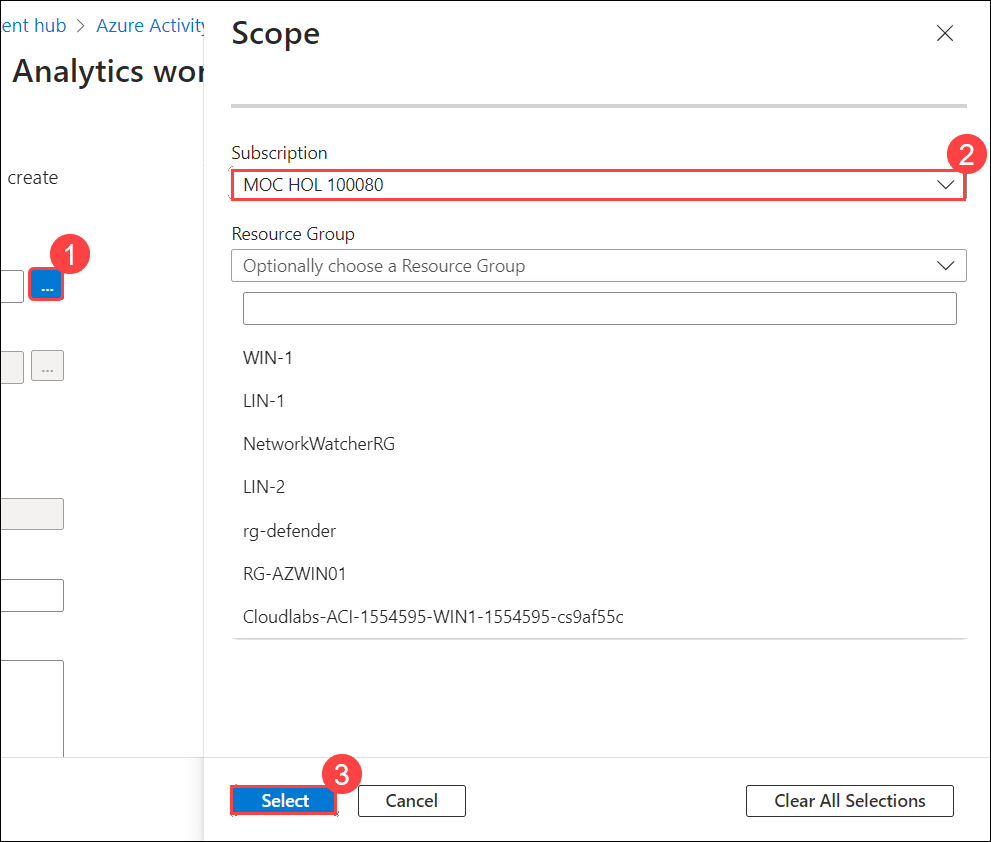
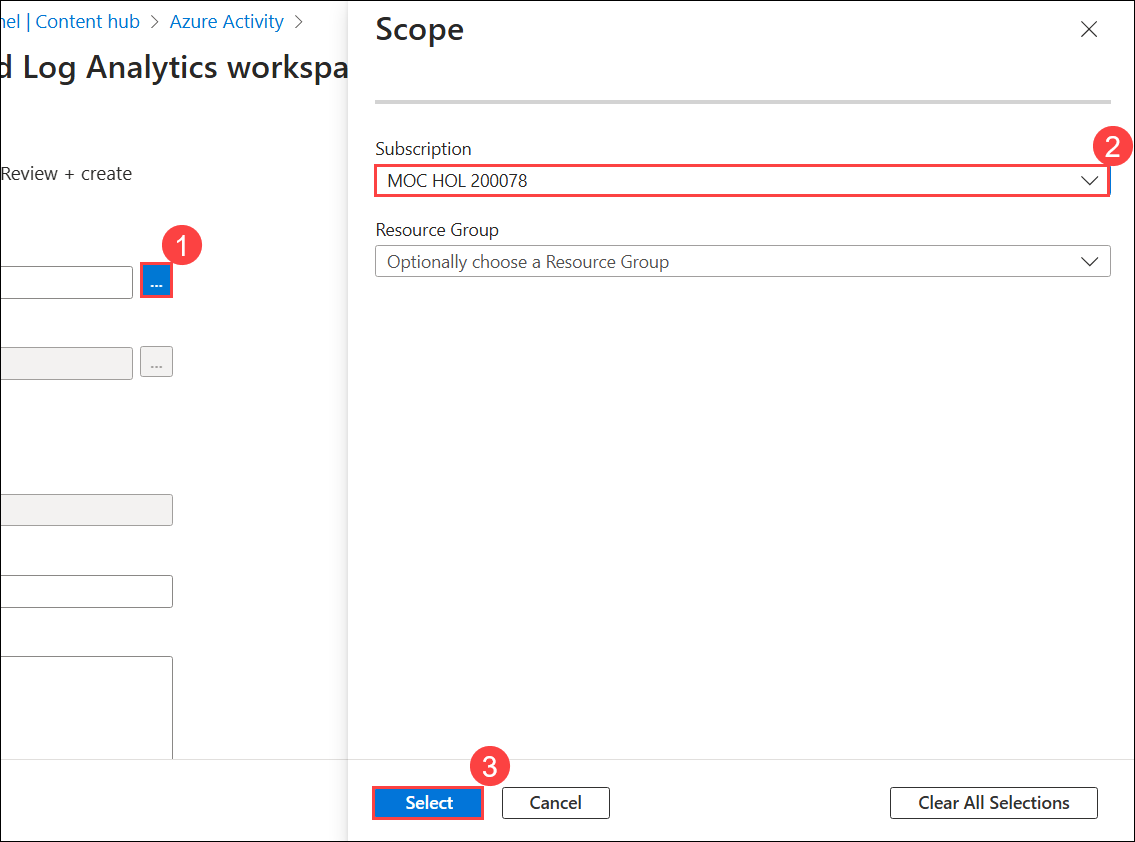
Updated-labguided

diff --git a/Instructions/Labs/LAB_AK_08_Lab1_Ex02_Connect_Windows.md b/Instructions/Labs/LAB_AK_08_Lab1_Ex02_Connect_Windows.md
@@ -52,7 +52,7 @@ In this task, you'll create a Windows virtual machine in Azure.
     | Subscription | your default subscription **(1)** | 
     | Resource Group | Select **RG-AZWIN01 (2)**   |
     | Virtual machine name |  Enter **AZWIN01 (3)**  | 
-    | Region | **<inject key="location" enableCopy="false"/> (4)** |
+    | Region | **Use default region (4)** |
 
       ![](../Media/l8e1-6.png)
 
@@ -155,21 +155,21 @@ In this task, you install Azure Arc on an on-premises server to make onboarding 
 
    ![](../Media/l8e1-11.png)
 
-1. Enter *Administrator* for "Username" and *Passw0rd!* for "Password" if you get a UAC prompt.
+1. Enter **Administrator** for "Username" and **Passw0rd!** for "Password" if you get a UAC prompt.
 
-1. Enter: cd C:\Users\Administrator\Downloads
+1. Enter: **cd C:\Users\Administrator\Downloads**
 
     ![](../Media/l8e122.png)
 
     >**Important:** If you do not have this directory, most likely means that you are in the wrong machine. Go back to the beginning of Task 4 and change to WINServer and start over.
 
-1. Type *Set-ExecutionPolicy -ExecutionPolicy Unrestricted* and press enter.
+1. Type **Set-ExecutionPolicy -ExecutionPolicy Unrestricted** and press **enter**.
 
 1. Enter **A** for Yes to All and press enter.
 
     ![](../Media/l8e123.png)
 
-1. Type *.\OnboardingScript.ps1* and press enter. 
+1. Type **.\OnboardingScript.ps1** and press **enter**. 
 
     ![](../Media/l8e124.png)
 
@@ -201,7 +201,7 @@ In this task, you'll connect an Azure Windows virtual machine to Microsoft Senti
 
    ![](../Media/l8e129.png)
 
-1. Select your Microsoft Sentinel Workspace you created earlier.
+1. Select the **uniquenameDefender** microsoft Sentinel Workspace you created earlier.
 
    ![](../Media/l8e130.png)
 
@@ -223,9 +223,13 @@ In this task, you'll connect an Azure Windows virtual machine to Microsoft Senti
 
    ![](../Media/l8e3-14.png)
     
-1. In the *Configuration* section, under the *Instructions* tab, select the **Create data collection rule**.
+1. In the *Configuration* section, under the *Instructions* tab, select the **+ Create data collection rule**.
 
-1. Enter **AZWINDCR** for Rule Name, then select **Next: Resources**.
+   ![](../Media/createdatacollectionrule.png)
+
+1. Enter **AZWINDCR (1)** for Rule Name, then select **Next: Resources (2)**.
+
+   ![](../Media/azwindcr.png)
 
 1. Select **+Add resource(s)** to select the Virtual Machine we created.
 
@@ -233,11 +237,11 @@ In this task, you'll connect an Azure Windows virtual machine to Microsoft Senti
 
     ![](../Media/l8e3-13.png)
 
-1. Select **Apply** and then select **Next: Collect**.
-
-1. Review the different Security Event collection option. Keep *All Security Events* and then select **Next: Review + create**.
+1. Next, choose **Collect**, review the various Security Event collection options, keep the setting for *All Security Events*, and then click on **Next: Review + Create**.
 
 1. Select **Create** to save the Data Collection Rule.
+
+   ![](../Media/createrule.png)
 
 1. Wait a minute and then select **Refresh** to see the new data collection rule listed.
 

diff --git a/Instructions/Labs/LAB_AK_08_Lab1_Ex01_Connect_Services.md b/Instructions/Labs/LAB_AK_08_Lab1_Ex01_Connect_Services.md
@@ -55,7 +55,9 @@ In this task, you will access your Microsoft Sentinel workspace.
   
     ![](../Media/l8e131.png)
 
-1. Select **uniquenameDefender**  Microsoft Sentinel Workspace that you created in the previous lab.
+1. Select the **uniquenameDefender** microsoft Sentinel Workspace you created earlier.
+
+   ![](../Media/uniquenamedefender.png)
 
 ### Task 2: Connect the Microsoft Defender for Cloud data connector
 
@@ -73,7 +75,7 @@ In this task, you will connect the Microsoft Defender for Cloud data connector.
 
 1. When the installation completes,  search for the **Microsoft Defender for Cloud** solution and select it.
 
-1. On the *Microsoft Defender for Cloud* solution details page select **Manage**.
+1. On the **Microsoft Defender for Cloud** solution details page select **Manage**.
 
     ![](../Media/l8e137.png)
 
@@ -96,6 +98,8 @@ In this task, you will connect the Microsoft Defender for Cloud data connector.
 1. Select the **X (Close)** button on the upper right to close the *Getting started* page. You should be back on the *Microsoft Defender for Cloud* configuration page.
 
 1. The *Status* for the **Subscription** should now be **Connected** and *Bi-directional sync* should be **Enabled**.
+
+   ![](../Media/bi-enabled.png)
 
     <!--- 1. Scroll down and under the *Create incidents - Recommended!* area, verify that *Create incidents automatically from all alerts generated in this connected service* is **Enabled**. --->
 
@@ -133,9 +137,13 @@ In this task, you will connect the *Azure Activity* data connector.
 
 1. Select the **Remediation** tab and select the **Create a remediation task** checkbox. This action will apply the policy to existing Azure resources.
 
+   ![](../Media/remediation.png)
+
 1. Select the **Review + Create** button to review the configuration.
 
 1. Select **Create** to finish.
+
+   ![](../Media/policy.png)
 
 ## Review
 In this lab, you have completed the following:

diff --git a/Instructions/Labs/LAB_AK_08_Lab1_Ex03_Connect_Linux.md b/Instructions/Labs/LAB_AK_08_Lab1_Ex03_Connect_Linux.md
@@ -27,7 +27,9 @@ In this task, you will access your Microsoft Sentinel workspace.
 
    ![](../Media/l8e129.png)
 
-1. Select the **uniquenameDefender** microsoft Sentinel Workspace you created in a previous lab.
+1. Select the **uniquenameDefender** microsoft Sentinel Workspace you created earlier.
+
+   ![](../Media/uniquenamedefender.png)
 
 ### Task 2: Connect a Linux Host using the Common Event Format connector
 
@@ -111,6 +113,8 @@ In this task, you will connect a Linux host to Microsoft Sentinel with the Syslo
 
 1. Select the tab for **Linux servers**.
 
+   ![](../Media/linuxservers.png)
+
     >**Note:** Your Log Analytics workspace should show **1 Linux computer connected**. This corresponds to the LIN1 (ubuntu1) virtual machine connected earlier with the CEF connector.
 
 1. Select **Log Analytics agent instructions**.
@@ -137,7 +141,9 @@ In this task, you will connect a Linux host to Microsoft Sentinel with the Syslo
 
    ![linux login](../Media/sc-200-M6-Ex3.png)
 
-1. You are now ready to paste in the **Download and onboard agent for Linux** from the earlier step. Make sure that the script from Azure is in the clipboard. In PowerShell right-click the top bar and choose **Edit** and then **Paste**. 
+1. You are now ready to paste in the **Download and onboard agent for Linux** from the earlier step. Make sure that the script from Azure is in the clipboard. In PowerShell right-click the top bar and choose **Edit (1)** and then **Paste (2)**. 
+
+    ![linux login](../Media/cp.png)
 
    >**Note:** You can also copy from the notepad you have pasted earlier.
 
